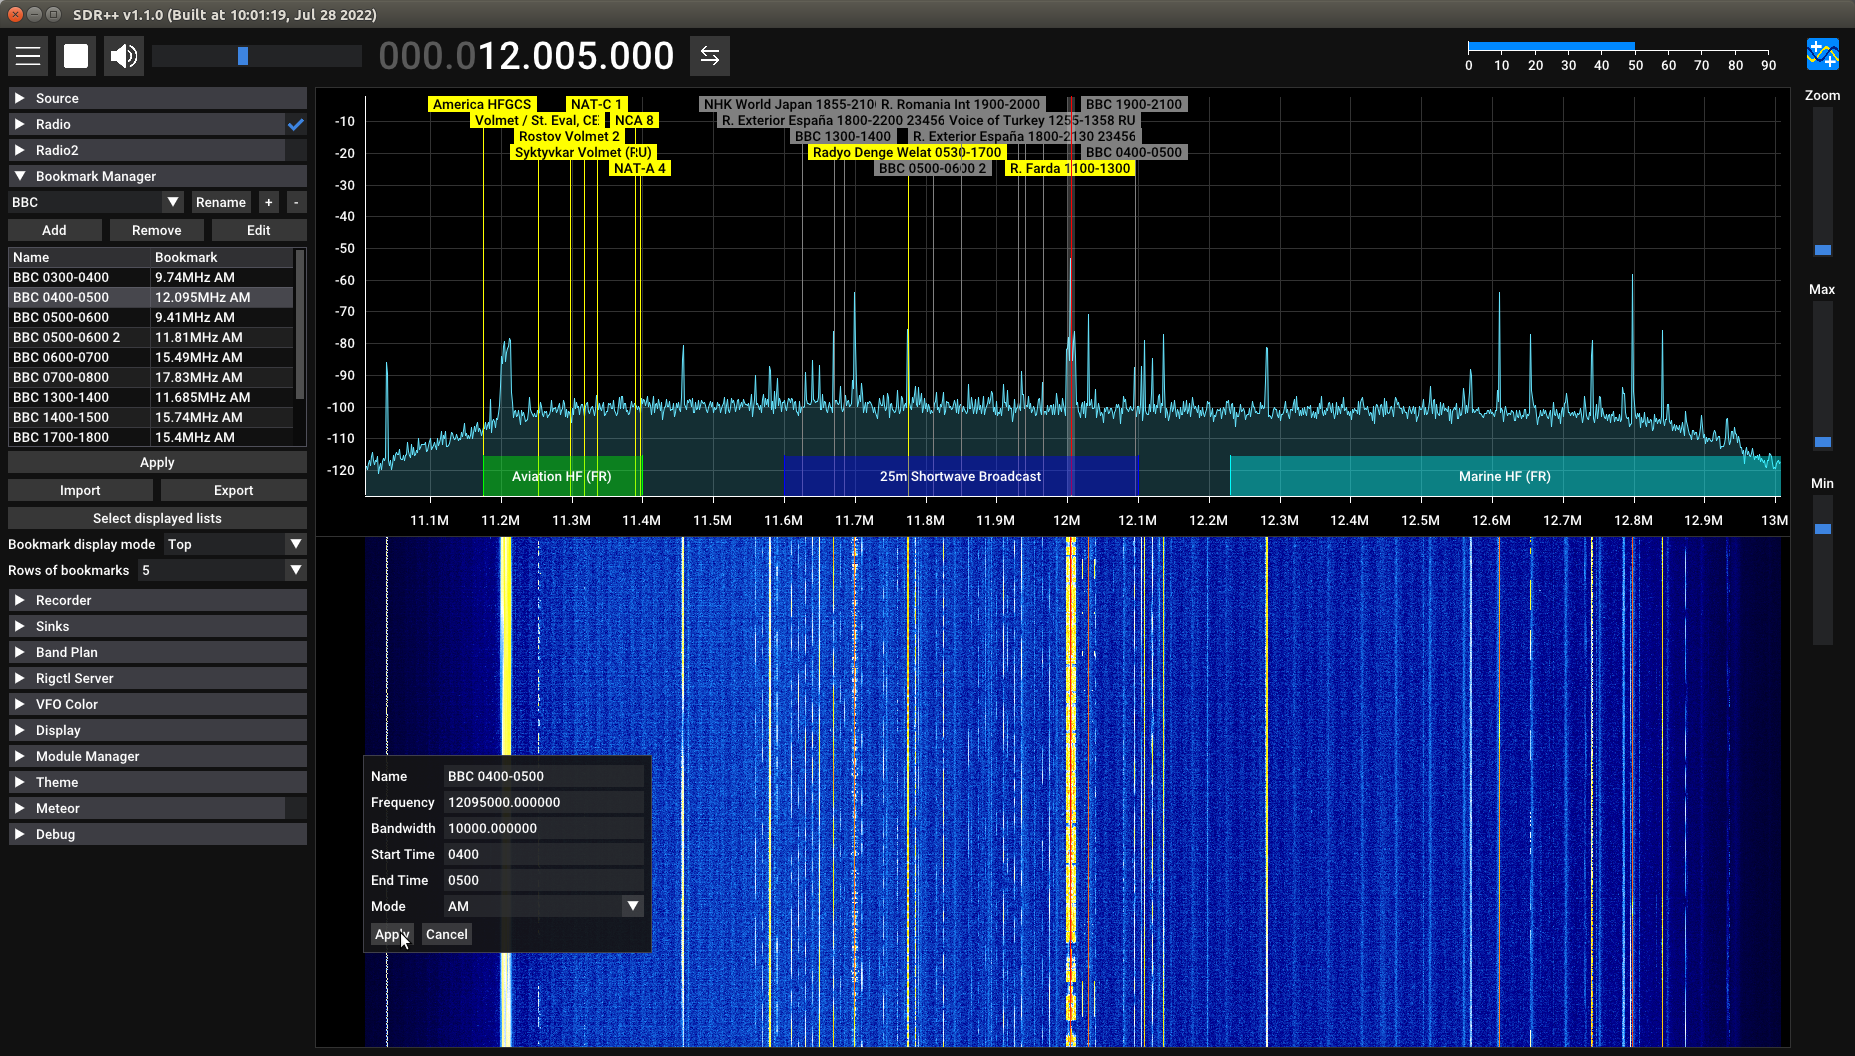
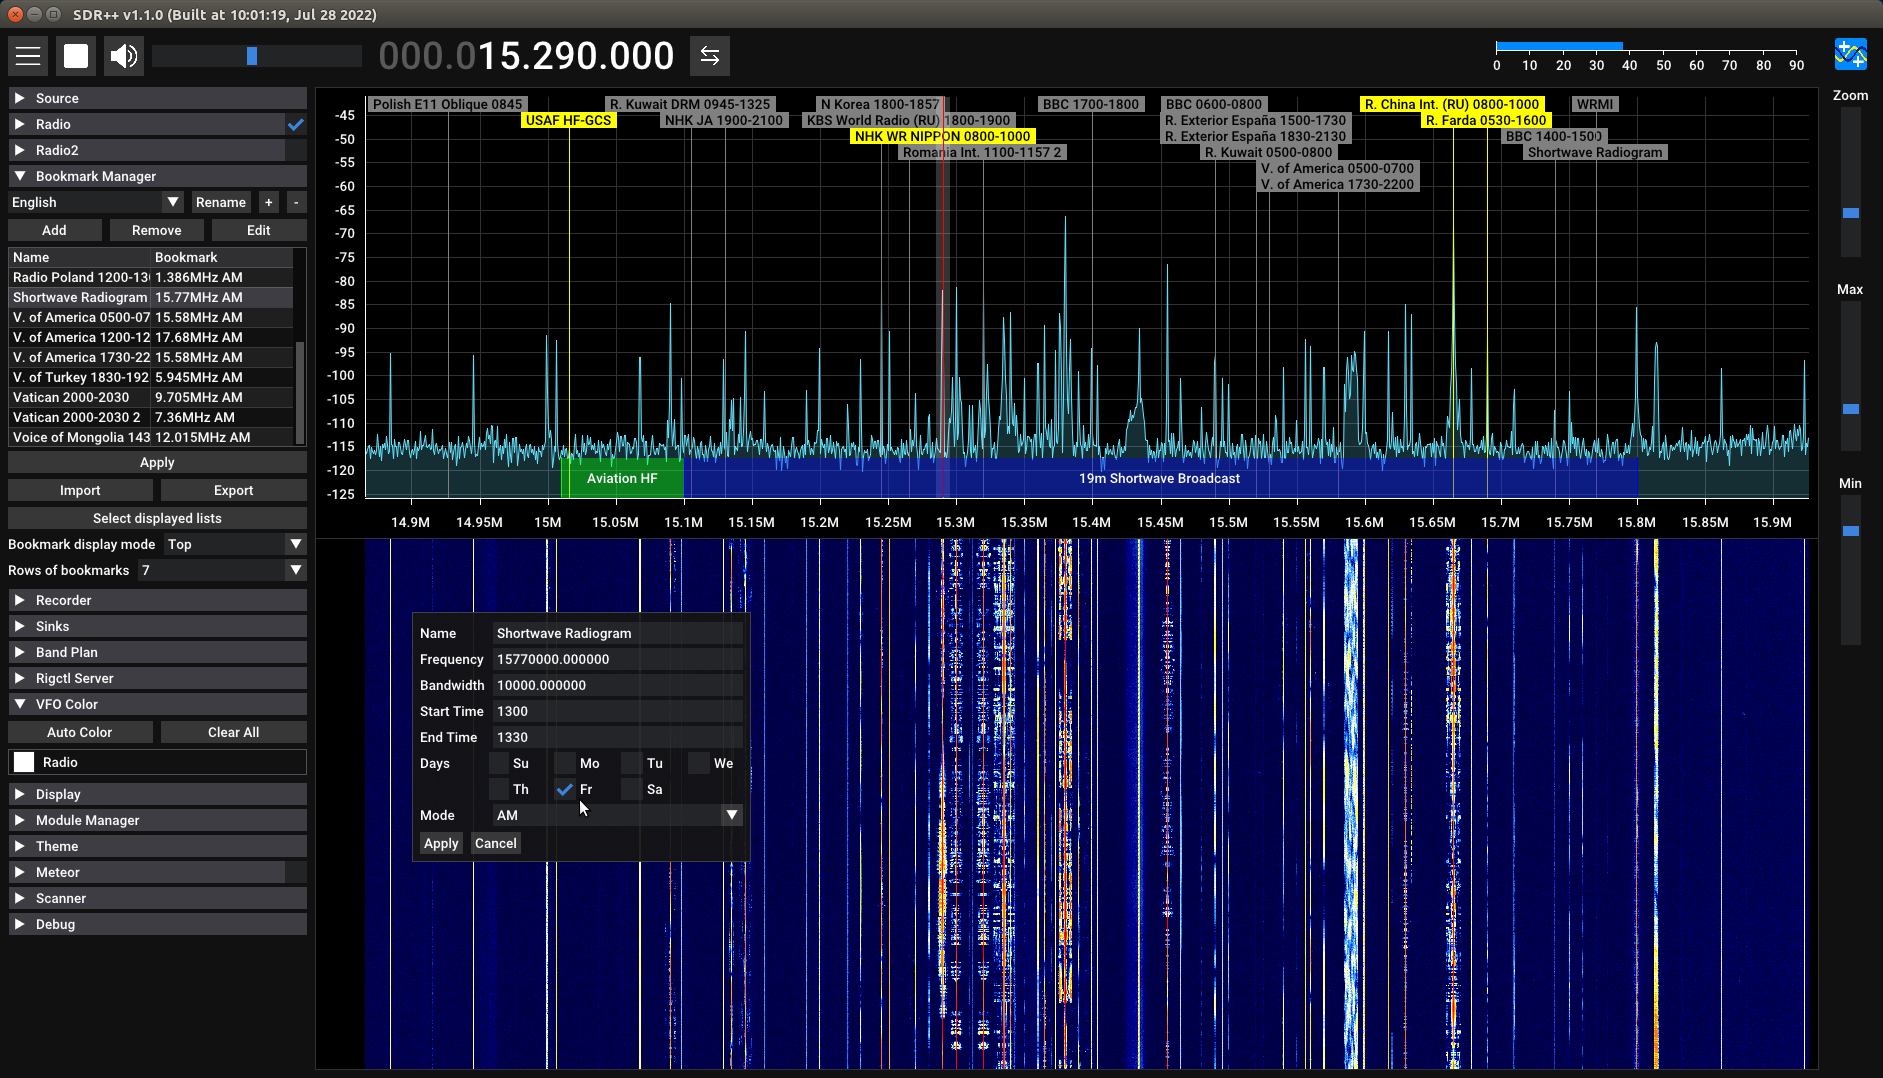
Add week days to bookmark.
This adds even more management for bookmarks that have specific broadcast times, useful mostly for various programs with different languages and contents depending on the day of the week.

diff --git a/src/main.cpp b/src/main.cpp
@@ -19,7 +19,7 @@ SDRPP_MOD_INFO{
     /* Name:            */ "bookmark_manager",
     /* Description:     */ "Bookmark manager module for SDR++",
     /* Author:          */ "Ryzerth;Zimm;Darau Ble",
-    /* Version:         */ 0, 1, 0,
+    /* Version:         */ 0, 1, 2,
     /* Max instances    */ 1
 };
 
@@ -30,6 +30,7 @@ struct FrequencyBookmark {
     bool selected;
     int startTime;
     int endTime;
+    bool days[7];
 };
 
 struct WaterfallBookmark {
@@ -69,7 +70,7 @@ enum {
 };
 
 const char* bookmarkDisplayModesTxt = "Off\0Top\0Bottom\0";
-const char* bookmarkRowsTxt = "1\0""2\0""3\0""4\0""5\0";
+const char* bookmarkRowsTxt = "1\0""2\0""3\0""4\0""5\0""6\0""7\0";
 
 bool compareWaterfallBookmarks(WaterfallBookmark wbm1, WaterfallBookmark wbm2) {
     return (wbm1.bookmark.frequency < wbm2.bookmark.frequency);
@@ -83,7 +84,11 @@ bool timeValid(int time) {
     return (hours >= 0 && hours <= 23 && minutes >= 0 && minutes <= 59);
 }
 
-bool bookmarkOnline(FrequencyBookmark bm, int now) {
+bool bookmarkOnline(FrequencyBookmark bm, int now, int weekDay) {
+    if (!bm.days[weekDay]) {
+        return false;
+    }
+
     if (bm.startTime == 0 && bm.endTime == 0) {
         return true;
     } else if (bm.startTime < bm.endTime) {
@@ -171,6 +176,16 @@ private:
         char nameBuf[1024];
         strcpy(nameBuf, editedBookmarkName.c_str());
 
+        if (!editOpen) {
+            // Set default values for new bookmark
+            editedBookmark.startTime = 0;
+            editedBookmark.endTime = 0;
+            
+            for (int i = 0; i < 7; i++) {
+                editedBookmark.days[i] = true;
+            }
+        }
+
         if (ImGui::BeginPopup(id.c_str(), ImGuiWindowFlags_NoResize)) {
             ImGui::BeginTable(("freq_manager_edit_table" + name).c_str(), 2);
 
@@ -178,7 +193,7 @@ private:
             ImGui::TableSetColumnIndex(0);
             ImGui::LeftLabel("Name");
             ImGui::TableSetColumnIndex(1);
-            ImGui::SetNextItemWidth(200);
+            ImGui::SetNextItemWidth(250);
             if (ImGui::InputText(("##freq_manager_edit_name" + name).c_str(), nameBuf, 1023)) {
                 editedBookmarkName = nameBuf;
             }
@@ -187,43 +202,65 @@ private:
             ImGui::TableSetColumnIndex(0);
             ImGui::LeftLabel("Frequency");
             ImGui::TableSetColumnIndex(1);
-            ImGui::SetNextItemWidth(200);
+            ImGui::SetNextItemWidth(250);
             ImGui::InputDouble(("##freq_manager_edit_freq" + name).c_str(), &editedBookmark.frequency);
 
             ImGui::TableNextRow();
             ImGui::TableSetColumnIndex(0);
             ImGui::LeftLabel("Bandwidth");
             ImGui::TableSetColumnIndex(1);
-            ImGui::SetNextItemWidth(200);
+            ImGui::SetNextItemWidth(250);
             ImGui::InputDouble(("##freq_manager_edit_bw" + name).c_str(), &editedBookmark.bandwidth);
 
             ImGui::TableNextRow();
             ImGui::TableSetColumnIndex(0);
             ImGui::LeftLabel("Start Time");
             ImGui::TableSetColumnIndex(1);
-            ImGui::SetNextItemWidth(200);
+            ImGui::SetNextItemWidth(250);
             ImGui::InputScalarN(
                 ("##freq_manager_edit_start_time" + name).c_str(),
                 ImGuiDataType_S32,
                 &editedBookmark.startTime, 1,
-                NULL, NULL, "%04d", NULL);
+                NULL, NULL, "%04d", 0);
 
             ImGui::TableNextRow();
             ImGui::TableSetColumnIndex(0);
             ImGui::LeftLabel("End Time");
             ImGui::TableSetColumnIndex(1);
-            ImGui::SetNextItemWidth(200);
+            ImGui::SetNextItemWidth(250);
             ImGui::InputScalarN(
                 ("##freq_manager_edit_end_time" + name).c_str(),
                 ImGuiDataType_S32,
                 &editedBookmark.endTime, 1,
-                NULL, NULL, "%04d", NULL);
+                NULL, NULL, "%04d", 0);
+            
+            ImGui::TableNextRow();
+            ImGui::TableSetColumnIndex(0);
+            ImGui::LeftLabel("Days");
+            ImGui::TableSetColumnIndex(1);
+
+            ImGui::BeginGroup();
+            ImGui::Columns(5, "BookmarkDays", false);
+            ImGui::NextColumn();
+            ImGui::Checkbox("Su", &editedBookmark.days[0]);
+            ImGui::Checkbox("Th", &editedBookmark.days[4]);
+            ImGui::NextColumn();
+            ImGui::Checkbox("Mo", &editedBookmark.days[1]);
+            ImGui::Checkbox("Fr", &editedBookmark.days[5]);
+            ImGui::NextColumn();
+            ImGui::Checkbox("Tu", &editedBookmark.days[2]);
+            ImGui::Checkbox("Sa", &editedBookmark.days[6]);
+            ImGui::NextColumn();
+            ImGui::Checkbox("We", &editedBookmark.days[3]);
+
+            ImGui::Columns(1, "EndBookmarkDays", false);
+            ImGui::EndGroup();
 
             ImGui::TableNextRow();
             ImGui::TableSetColumnIndex(0);
             ImGui::LeftLabel("Mode");
             ImGui::TableSetColumnIndex(1);
-            ImGui::SetNextItemWidth(200);
+            ImGui::SetNextItemWidth(250);
 
             ImGui::Combo(("##freq_manager_edit_mode" + name).c_str(), &editedBookmark.mode, demodModeListTxt);
 
@@ -360,6 +397,16 @@ private:
                 wbm.bookmark.bandwidth = bm["bandwidth"];
                 wbm.bookmark.startTime = bm.contains("startTime") ? (int)bm["startTime"] : 0;
                 wbm.bookmark.endTime = bm.contains("endTime") ? (int)bm["endTime"] : 0;
+                
+                if (bm.contains("days")) {
+                    std::copy(bm["days"].begin(), bm["days"].end(), wbm.bookmark.days);
+                } else {
+                    for (int i = 0; i < 7; i++) {
+                        wbm.bookmark.days[i] = true;
+                    }
+                }
+
+
                 wbm.bookmark.mode = bm["mode"];
                 wbm.bookmark.selected = false;
                 wbm.clampedRectMin = ImVec2(-1, -1);
@@ -397,6 +444,15 @@ private:
             fbm.bandwidth = bm["bandwidth"];
             fbm.startTime = bm.contains("startTime") ? (int)bm["startTime"] : 0;
             fbm.endTime = bm.contains("endTime") ? (int)bm["endTime"] : 0;
+            
+            if (bm.contains("days")) {
+                std::copy(bm["days"].begin(), bm["days"].end(), fbm.days);
+            } else {
+                for (int i = 0; i < 7; i++) {
+                    fbm.days[i] = true;
+                }
+            }
+
             fbm.mode = bm["mode"];
             fbm.selected = false;
             bookmarks[bmName] = fbm;
@@ -412,6 +468,7 @@ private:
             config.conf["lists"][listName]["bookmarks"][bmName]["bandwidth"] = bm.bandwidth;
             config.conf["lists"][listName]["bookmarks"][bmName]["startTime"] = bm.startTime;
             config.conf["lists"][listName]["bookmarks"][bmName]["endTime"] = bm.endTime;
+            config.conf["lists"][listName]["bookmarks"][bmName]["days"] = bm.days;
             config.conf["lists"][listName]["bookmarks"][bmName]["mode"] = bm.mode;
         }
         refreshWaterfallBookmarks(false);
@@ -690,6 +747,7 @@ private:
         std::vector<BookmarkRectangle> bookmarkRectangles[_this->bookmarkRows+1];
 
         int now = getUTCTime();
+        int weekDay = getWeekDay();
 
         for (auto &bm : _this->waterfallBookmarks) {
             double centerXpos = args.min.x + std::round((bm.bookmark.frequency - args.lowFreq) * args.freqToPixelRatio);
@@ -755,7 +813,7 @@ private:
 
                 ImU32 bookmarkColor = IM_COL32(255, 255, 0, 255);
 
-                if (!bookmarkOnline(bm.bookmark, now)) {
+                if (!bookmarkOnline(bm.bookmark, now, weekDay)) {
                     bookmarkColor = IM_COL32(128, 128, 128, 255);
                 }
                 
@@ -863,6 +921,15 @@ private:
             fbm.bandwidth = bm["bandwidth"];
             fbm.startTime = bm.contains("startTime") ? (int)bm["startTime"] : 0;
             fbm.endTime = bm.contains("endTime") ? (int)bm["endTime"] : 0;
+            
+            if (bm.contains("days")) {
+                std::copy(bm["days"].begin(), bm["days"].end(), fbm.days);
+            } else {
+                for (int i = 0; i < 7; i++) {
+                    fbm.days[i] = true;
+                }
+            }
+
             fbm.mode = bm["mode"];
             fbm.selected = false;
             bookmarks[_name] = fbm;

diff --git a/src/utc.cpp b/src/utc.cpp
@@ -28,3 +28,9 @@ int getUTCMin()
     std::tm *now_tm = std::gmtime(&now);
     return now_tm->tm_min;
 }
+int getWeekDay()
+{
+    std::time_t now = std::time(0);
+    std::tm *now_tm = std::gmtime(&now);
+    return now_tm->tm_wday;
+}

diff --git a/src/utc.h b/src/utc.h
@@ -12,3 +12,4 @@
 float getUTCTime();
 int getUTCHour();
 int getUTCMin();
+int getWeekDay();

diff --git a/README.md b/README.md
@@ -8,26 +8,26 @@ The original Frequency Manager included with the SDR++ has an inconvenience of a
 
 I really like SDR++ for its cleanliness, but this issue bugged me a lot. So I simply took the source of the Frequency Manager, copied it, renamed to Bookmark Manager and "fixed" it for myself.
 
-Nothing else is changed, but users can now choose to use between 1 and 5 lines for bookmarks to be automatically arranged:
+Nothing else is changed, but users can now choose to use between 1 and 7 lines for bookmarks to be automatically arranged:
 
 ![Bookmark Manager arranges bookmarks in sevral rows](screenshots/sdrpp-bookmark-manager.png?raw=true "Bookmark Manager arranges bookmarks in sevral rows")
 
-Bookmarks with UTC and currently not online are greyed out.
+Bookmarks with UTC, appropriate week days and currently not online are greyed out.
 
 ## Current Features
 
 (As opposed to original Frequency Manager)
 
-* Bookmark arrangement in several (user chosen) rows, both top and bottom arrangements
+* Bookmark arrangement in up to 7 (user chosen) rows, both top and bottom arrangements
 * Cashed position for mouse-over (no recalculation)
 * UTC start/end times of the broadcast (leave 0000 in both for all day broadcasts)
+* Week days for a bookmark (all checked by default)
 
 ## Planned Features
 
 I also have other plans for Bookmark Manager in the future:
 
 * Give different colors for bookmark lists so they nice to identify
-* Add broadcast week days for a bookmark
 * Add a toggle to show/hide bookmarks that are not on time
 
 ## Compiling
